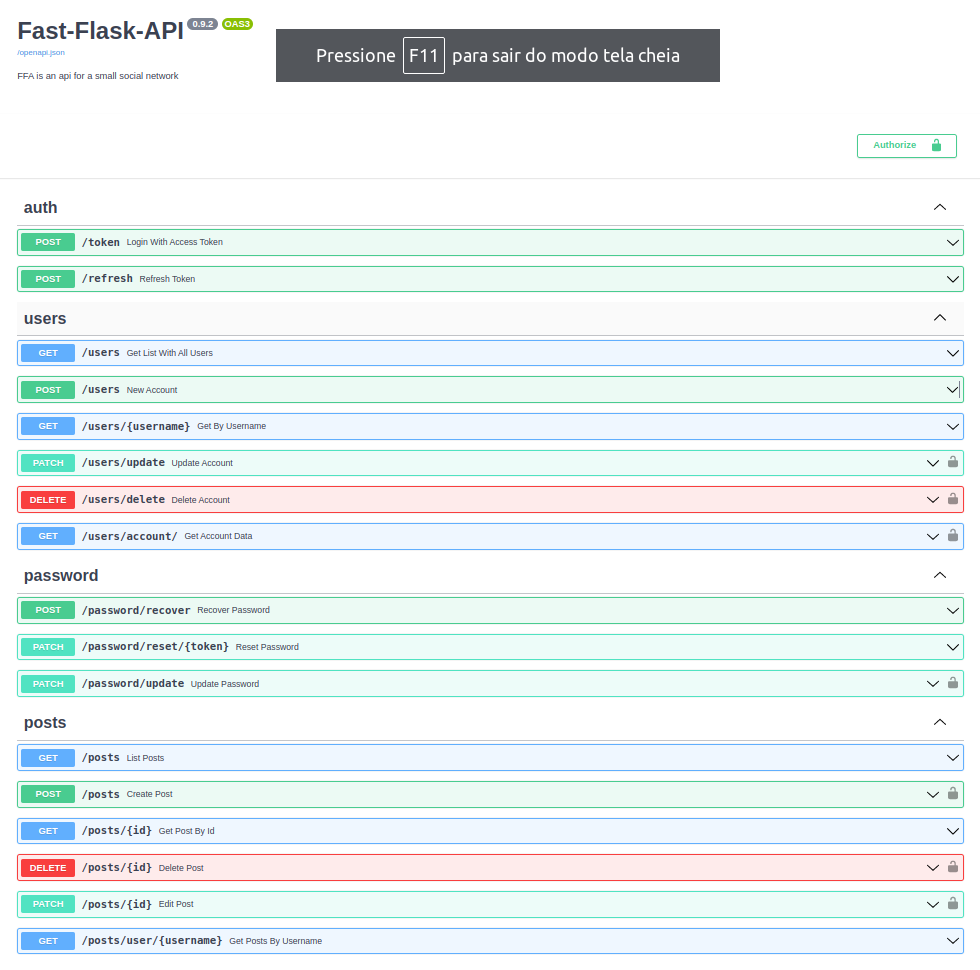
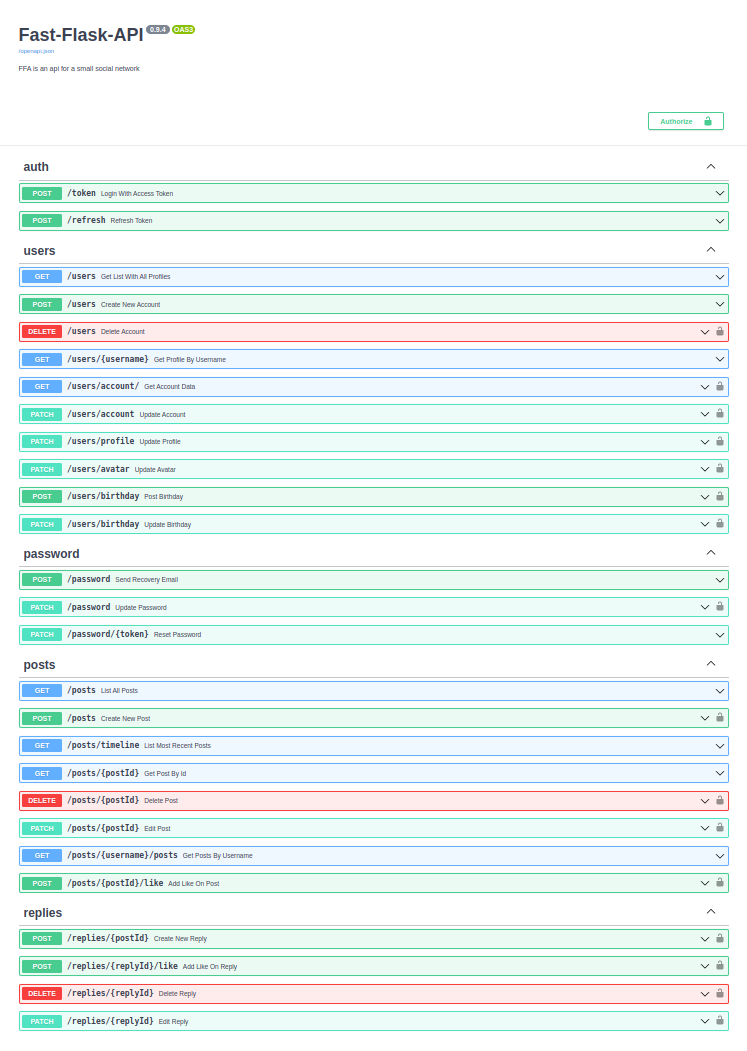
docs: Atualização dos Endpoints.png, Tasks, Testes e README

Changed region(s): [[0.0, 0.0928, 0.9853, 0.9897], [0.2771, 0.0309, 0.739, 0.0928], [0.0, 0.0, 0.2771, 0.0928]]

diff --git a/docs/README.md b/docs/README.md
@@ -26,6 +26,7 @@ O projeto será modelado no contexto de um Blog, afim de utilizar CRUD nas rotas
   - [Resumo](#resumo)
   - [Funcionalidades](#funcionalidades)
     - [Usuários](#usuários)
+    - [Segurança](#segurança)
     - [Postagens](#postagens)
   - [Requisitos](#requisitos)
   - [Ambiente](#ambiente)
@@ -38,15 +39,21 @@ O projeto será modelado no contexto de um Blog, afim de utilizar CRUD nas rotas
 
 ### Usuários
 
-- [x] Registro de novos usuários
-- [x] Autenticação de usuários
-- [x] Atualizar dados
-- [x] Atualizar senha
-- [x] Recuperar senha
-- [x] Pegar os dados da conta
+- [x] Registro
 - [x] Listagem de usuários
-- [x] Listagem de usuário por username
+  - [x] Todos
+  - [x] Por @username
+- [x] Atualizar dados 
+- [x] Acessar os dados da conta
 - [x] Deletar conta
+
+### Segurança
+- [x] Autenticação
+  - [x] Access token
+  - [x] Refresh Token
+- [x] Recuperar senha
+  - [x] Email com link e tokenJwt
+- [x] Atualizar senha
 
 ### Postagens
 
@@ -56,9 +63,9 @@ O projeto será modelado no contexto de um Blog, afim de utilizar CRUD nas rotas
 - [x] Listagem de posts
 - [x] Listagem de post por id
 - [x] Listagem de posts por usuário
-- [ ] Listagem de posts seguidos (timeline)
-- [x] Likes em postagens
-- [ ] Postagem pode ser resposta a outra postagem
+- [x] Listagem de posts seguidos (timeline)
+- [x] Likes em postagens e respostas
+- [x] Postagem pode ser resposta a outra postagem
 
 
 ## Requisitos
@@ -123,30 +130,40 @@ pytest
 │   ├── models
 │   │   ├── post
 │   │   │   ├── __init__.py
+│   │   │   ├── like.py
 │   │   │   ├── post.py
+│   │   │   ├── reply.py
 │   │   │   ├── request.py
 │   │   │   └── response.py
 │   │   ├── token
 │   │   │   ├── __init__.py
 │   │   │   └── token_model.py
 │   │   └── user
+│   │       ├── access.py
+│   │       ├── birthday.py
 │   │       ├── __init__.py
+│   │       ├── profile.py
 │   │       ├── request.py
 │   │       ├── response.py
 │   │       └── user.py
 │   ├── routers.py
-│   └── routes
-│       ├── auth.py
-│       ├── controllers
-│       │   ├── auth_controller.py
-│       │   ├── post_controller.py
-│       │   └── user_controller.py
-│       ├── post.py
-│       ├── security
-│       │   ├── login_required.py
-│       │   ├── send_recovery_email.py
-│       │   └── token_jwt.py
-│       └── user.py
+│   ├── routes
+│   │   ├── auth.py
+│   │   ├── controllers
+│   │   │   ├── auth_controller.py
+│   │   │   ├── password_controller.py
+│   │   │   ├── post_controller.py
+│   │   │   ├── reply_controller.py
+│   │   │   └── user_controller.py
+│   │   ├── password.py
+│   │   ├── post.py
+│   │   ├── reply.py
+│   │   └── user.py
+│   └── security
+│       ├── backend.py
+│       ├── recovery_pwd.py
+│       ├── session.py
+│       └── token.py
 ├── docs
 │   ├── endpoints.png
 │   ├── Fast-Flask-API - - Fast-Deploy.postman_collection.json
@@ -167,21 +184,23 @@ pytest
     ├── models
     │   ├── __init__.py
     │   ├── test_post.py
+    │   ├── test_reply.py
     │   ├── test_token.py
     │   └── test_user.py
     ├── pytest.ini
     ├── routes
     │   ├── __init__.py
     │   ├── test_auth.py
+    │   ├── test_password.py
     │   ├── test_post.py
+    │   ├── test_reply.py
     │   └── test_user.py
     ├── unity
     │   ├── __init__.py
     │   └── test_token_jwt.py
     └── utils
-        ├── post.py
-        ├── token.py
-        └── user.py
+        ├── client.py
+        └── post.py
 
-14 directories, 50 files
+14 directories, 62 files
 ```

diff --git a/docs/tests.md b/docs/tests.md
@@ -1,8 +1,8 @@
 ## Auth
 - [x] Routes
-  - [x] Token (login)
+  - [x] Token
   - [x] Refresh
-- [x] Login Required
+- [x] Session
   - [x] Access_token
   - [x] Refresh_token
 - [x] Token JWT
@@ -16,34 +16,63 @@
   - [x] TokenRefresh
 
 
-## User
-- [x] Routes 
+## Users
+- [ ] Routes 
+  - [x] Create
+  - [x] Get all profiles
+  - [x] Get profile by username
+  - [x] Get account data
+  - [x] Get Profile
+  - [x] Delete
+  - [x] Update account
+  - [ ] Update profile
+  - [ ] Update birthday
+- [ ] Models
+  - [x] UserModel
+  - [ ] ProfileModel
+  - [ ] BirthdayModel
+  - [ ] AccessModel
+  - [ ] Request
+    - [x] RequestCreateAccount
+    - [ ] RequestProfile
+    - [ ] RequestBirthday
+    - [ ] RequestAccess
+    - [x] UpdateAccount
+    - [ ] UpdateAvatar
+    - [ ] UpdateAccess
+  - [x] Response
+    - [x] ProfileResponse
+    - [x] AccountDataResponse
+
+## Password
+- [x] Routes
+  - [x] Update
+  - [x] Recover
+  - [x] Reset
+- [ ] Models
+  - [ ] RecoverPassword
+  - [x] UpdatePassword
+
+## Posts
+- [ ] Routes
   - [x] Create
   - [x] Get all
+  - [x] Get by id
   - [x] Get by username
-  - [x] Get account data
   - [x] Delete
   - [x] Update
-  - [x] Update password
-  - [x] Recover password
-- [x] Models
-  - [x] UserModel
-  - [x] UserRequest
-  - [x] UserRequestPatch
-  - [x] UserRequestUpdatePassword
-  - [x] UserResponse
-  - [x] UserResponseAccountData
-  
-
-## Post
-- [x] Routes
-  - [x] Create
-  - [x] Get-all
-  - [x] Get-by-id
-  - [x] Get-by-username
-  - [x] Delete
-  - [x] Update
+  - [ ] Add like
 - [x] Models
   - [x] PostModel
   - [x] PostResponse
   - [x] PostRequest
+
+
+## Replies
+- [ ] Routes
+  - [ ] Create
+  - [ ] Update
+  - [ ] Delete
+  - [ ] Add like
+- [ ] Models
+  - [ ] ReplyModel

diff --git a/docs/tasks.md b/docs/tasks.md
@@ -1,8 +1,8 @@
 ## Auth
 - [x] Routes
-  - [x] Token (login)
+  - [x] Token
   - [x] Refresh
-- [x] Login Required
+- [x] Session
   - [x] Access_token
   - [x] Refresh_token
 - [x] Token JWT
@@ -16,34 +16,63 @@
   - [x] TokenRefresh
 
 
-## User
+## Users
 - [x] Routes 
   - [x] Create
-  - [x] Get all
-  - [x] Get by username
+  - [x] Get all profiles
+  - [x] Get profile by username
   - [x] Get account data
+  - [x] Get Profile
   - [x] Delete
-  - [x] Update
-  - [x] Update password
-  - [x] Recover password
+  - [x] Update account
+  - [x] Update profile
+  - [x] Update birthday
 - [x] Models
   - [x] UserModel
-  - [x] UserRequest
-  - [x] UserRequestPatch
-  - [x] UserRequestUpdatePassword
-  - [x] UserResponse
-  - [x] UserResponseAccountData
-      
+  - [x] ProfileModel
+  - [x] BirthdayModel
+  - [x] AccessModel
+  - [x] Request
+    - [x] RequestCreateAccount
+    - [x] RequestProfile
+    - [x] RequestBirthday
+    - [x] RequestAccess
+    - [x] Update Account
+    - [x] UpdateAvatar
+    - [x] UpdateAccess
+  - [x] Response
+    - [x] ProfileResponse
+    - [x] AccountDataResponse
 
-## Post
+## Password
+- [x] Routes
+  - [x] Update
+  - [x] Recover
+  - [x] Reset
+- [x] Models
+  - [x] RecoverPassword
+  - [x] UpdatePassword
+
+## Posts
 - [x] Routes
   - [x] Create
-  - [x] Get-all
-  - [x] Get-by-id
-  - [x] Get-by-username
+  - [x] Get all
+  - [x] Get by id
+  - [x] Get by username
   - [x] Delete
   - [x] Update
+  - [x] Add like
 - [x] Models
   - [x] PostModel
   - [x] PostResponse
   - [x] PostRequest
+
+
+## Replies
+- [x] Routes
+  - [x] Create
+  - [x] Update
+  - [x] Delete
+  - [x] Add like
+- [x] Models
+  - [x] ReplyModel
